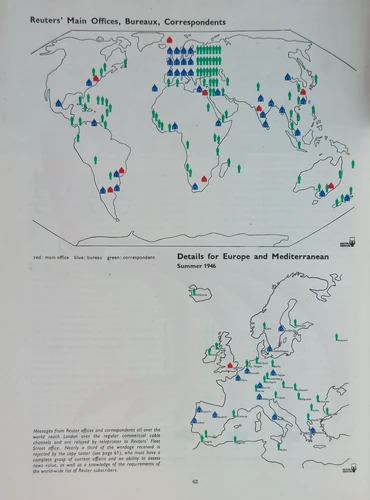
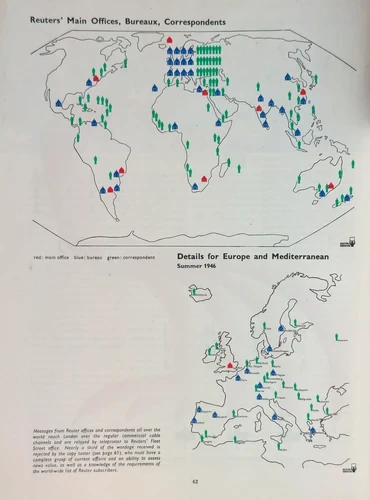
tone match w0012 webp assets

diff --git a/scripts/tone_match_work_webps.py b/scripts/tone_match_work_webps.py
@@ -1,0 +1,138 @@
+#!/usr/bin/env python3
+"""
+Tone-match WEBP derivatives for one work to reference works.
+
+This is intended for local image correction after WEBP generation. It measures
+the brightest 10% of pixels as a paper/background proxy, computes a per-channel
+gain against reference works, and overwrites the target WEBPs.
+
+Requires Pillow and NumPy.
+"""
+
+from __future__ import annotations
+
+import argparse
+import json
+from pathlib import Path
+from typing import Any, Iterable
+
+import numpy as np
+from PIL import Image
+
+
+def load_json(path: Path) -> Any:
+    with path.open("r", encoding="utf-8") as handle:
+        return json.load(handle)
+
+
+def image_array(path: Path, sample_size: int | None = None) -> np.ndarray:
+    image = Image.open(path).convert("RGB")
+    if sample_size:
+        image.thumbnail((sample_size, sample_size), Image.Resampling.LANCZOS)
+    return np.asarray(image).astype(np.float32)
+
+
+def luminance(arr: np.ndarray) -> np.ndarray:
+    return 0.2126 * arr[:, :, 0] + 0.7152 * arr[:, :, 1] + 0.0722 * arr[:, :, 2]
+
+
+def top_light_rgb(path: Path, top_percent: float, sample_size: int) -> np.ndarray:
+    arr = image_array(path, sample_size)
+    y = luminance(arr)
+    threshold = np.percentile(y, 100 - top_percent)
+    mask = y >= threshold
+    if not mask.any():
+        return arr.reshape(-1, 3).mean(axis=0)
+    return arr[mask].mean(axis=0)
+
+
+def average_top_light_rgb(
+    paths: Iterable[Path],
+    top_percent: float,
+    sample_size: int,
+) -> np.ndarray:
+    rgbs = [top_light_rgb(path, top_percent, sample_size) for path in paths]
+    return np.vstack(rgbs).mean(axis=0)
+
+
+def save_webp(path: Path, arr: np.ndarray, quality: int) -> None:
+    clipped = np.clip(arr, 0, 255).astype(np.uint8)
+    Image.fromarray(clipped, mode="RGB").save(
+        path,
+        format="WEBP",
+        quality=quality,
+        method=6,
+    )
+
+
+def main() -> int:
+    parser = argparse.ArgumentParser(description="Tone-match work WEBPs.")
+    parser.add_argument("--figures", default="public/data/figures.json")
+    parser.add_argument("--work-id", required=True)
+    parser.add_argument(
+        "--target-work-ids",
+        default="w0010,w0011",
+        help="Comma-separated work ids used as the tone reference.",
+    )
+    parser.add_argument("--top-percent", type=float, default=10.0)
+    parser.add_argument("--sample-size", type=int, default=900)
+    parser.add_argument("--min-gain", type=float, default=0.95)
+    parser.add_argument("--max-gain", type=float, default=1.25)
+    parser.add_argument("--quality", type=int, default=90)
+    parser.add_argument("--dry-run", action="store_true")
+    args = parser.parse_args()
+
+    figures = load_json(Path(args.figures))
+    target_work_ids = {
+        item.strip() for item in args.target_work_ids.split(",") if item.strip()
+    }
+
+    reference_paths = [
+        Path("public") / figure["view"].lstrip("/")
+        for figure in figures
+        if figure.get("workId") in target_work_ids
+    ]
+    work_figures = [
+        figure for figure in figures if figure.get("workId") == args.work_id
+    ]
+    work_paths = [
+        Path("public") / figure[key].lstrip("/")
+        for figure in work_figures
+        for key in ("thumb", "view")
+    ]
+
+    if not reference_paths:
+        raise SystemExit("No reference paths found.")
+    if not work_paths:
+        raise SystemExit("No target paths found.")
+
+    target_rgb = average_top_light_rgb(
+        reference_paths,
+        top_percent=args.top_percent,
+        sample_size=args.sample_size,
+    )
+    print(
+        "Reference top-light RGB:",
+        ", ".join(f"{channel:.1f}" for channel in target_rgb),
+    )
+
+    for path in work_paths:
+        current_rgb = top_light_rgb(path, args.top_percent, args.sample_size)
+        gain = target_rgb / np.maximum(current_rgb, 1.0)
+        gain = np.clip(gain, args.min_gain, args.max_gain)
+        print(
+            f"{path}: current="
+            + ",".join(f"{channel:.1f}" for channel in current_rgb)
+            + " gain="
+            + ",".join(f"{channel:.3f}" for channel in gain)
+        )
+        if args.dry_run:
+            continue
+        arr = image_array(path)
+        save_webp(path, arr * gain, quality=args.quality)
+
+    return 0
+
+
+if __name__ == "__main__":
+    raise SystemExit(main())
